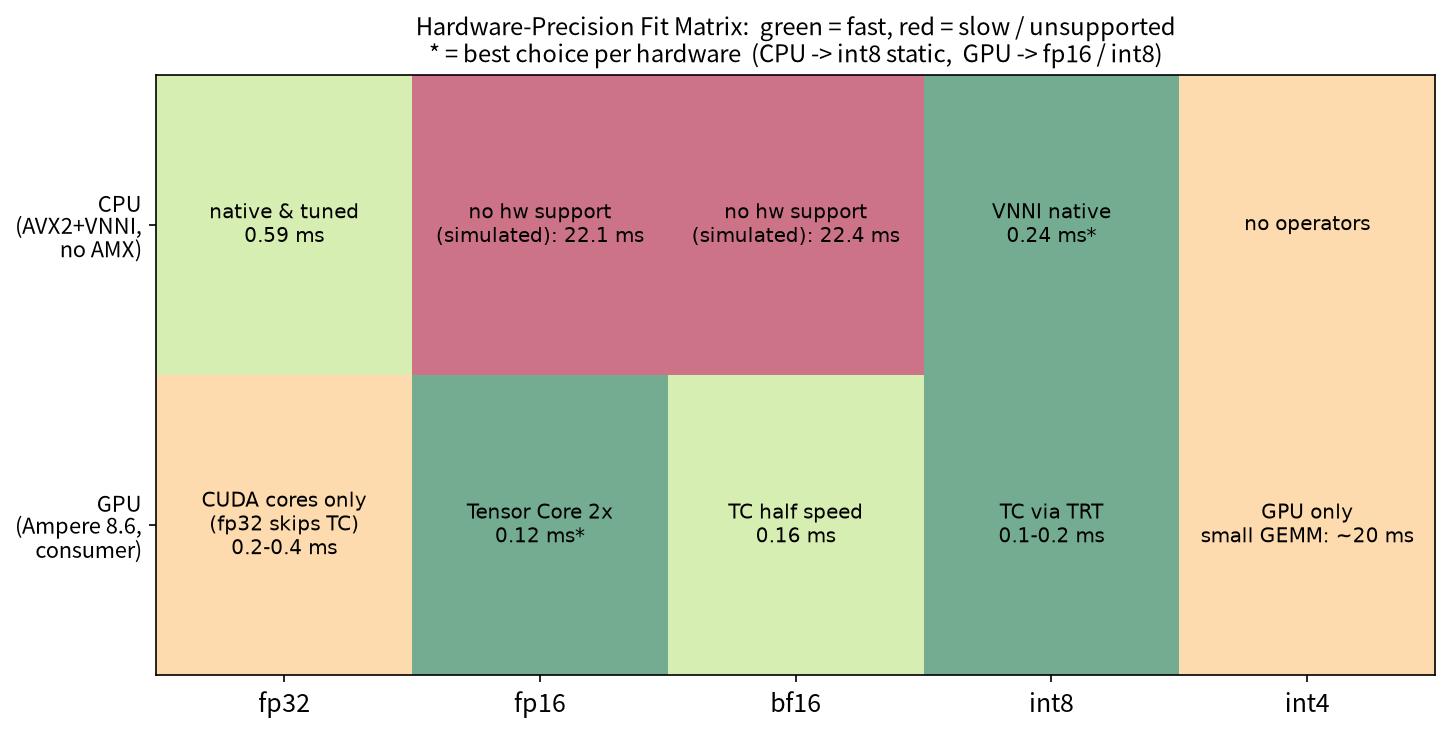
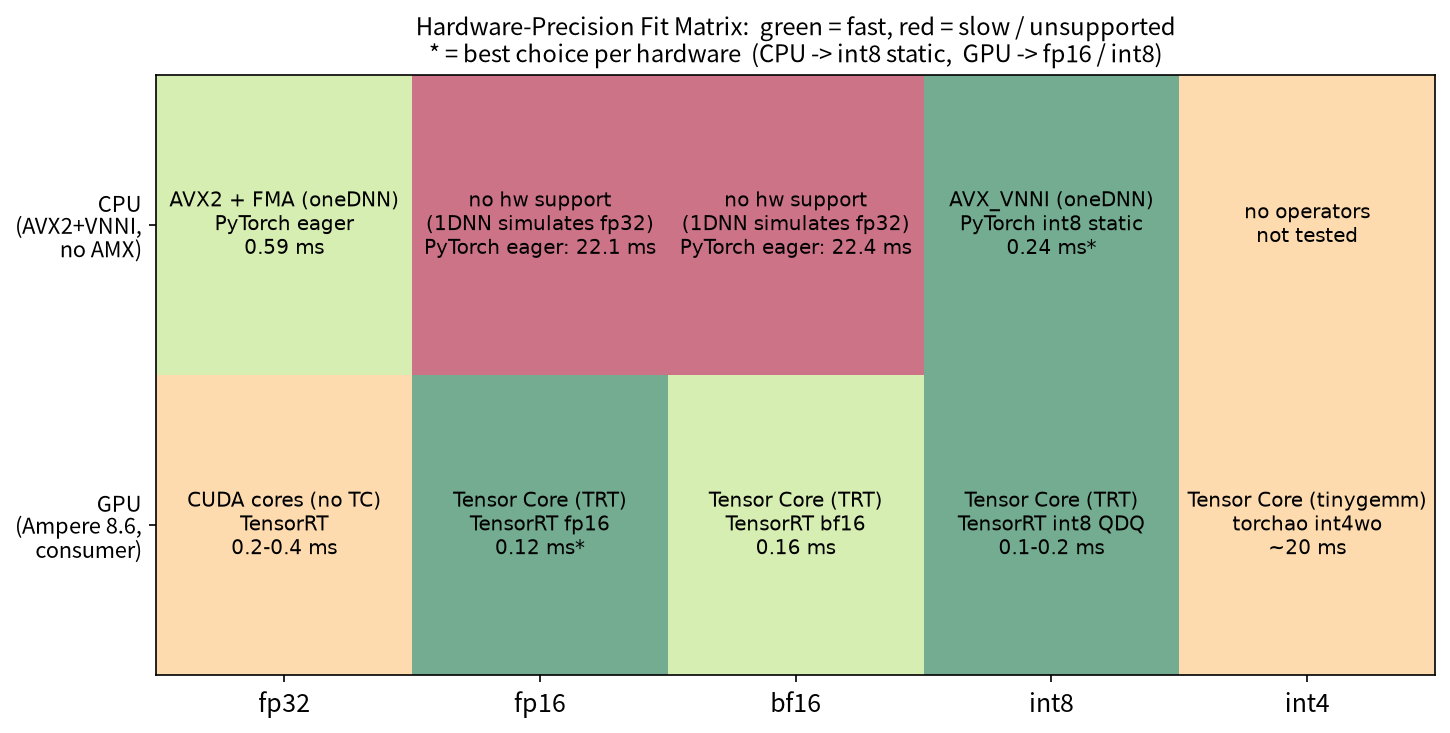
docs: 矩阵图文字统一为 计算单元/指令集 + 测试框架 + 耗时 三行格式

diff --git a/src/make_charts.py b/src/make_charts.py
@@ -200,8 +200,18 @@ def hw_precision_matrix():
         [1, 3, 2, 3, 1],   # GPU
     ], dtype=float)
     im = ax.imshow(data, cmap="RdYlGn", vmin=0, vmax=3, aspect="auto", alpha=0.55)
-    notes = [["native & tuned\n0.59 ms", "no hw support\n(simulated): 22.1 ms", "no hw support\n(simulated): 22.4 ms", "VNNI native\n0.24 ms*", "no operators"],
-             ["CUDA cores only\n(fp32 skips TC)\n0.2-0.4 ms", "Tensor Core 2x\n0.12 ms*", "TC half speed\n0.16 ms", "TC via TRT\n0.1-0.2 ms", "GPU only\nsmall GEMM: ~20 ms"]]
+    # 统一格式：第 1 行 = 计算单元/指令集（不支持则 no hw support），
+    # 第 2 行 = 测试框架，第 3 行 = 耗时
+    notes = [["AVX2 + FMA (oneDNN)\nPyTorch eager\n0.59 ms",
+              "no hw support\n(1DNN simulates fp32)\nPyTorch eager: 22.1 ms",
+              "no hw support\n(1DNN simulates fp32)\nPyTorch eager: 22.4 ms",
+              "AVX_VNNI (oneDNN)\nPyTorch int8 static\n0.24 ms*",
+              "no operators\nnot tested"],
+             ["CUDA cores (no TC)\nTensorRT\n0.2-0.4 ms",
+              "Tensor Core (TRT)\nTensorRT fp16\n0.12 ms*",
+              "Tensor Core (TRT)\nTensorRT bf16\n0.16 ms",
+              "Tensor Core (TRT)\nTensorRT int8 QDQ\n0.1-0.2 ms",
+              "Tensor Core (tinygemm)\ntorchao int4wo\n~20 ms"]]
     for i in range(2):
         for j in range(5):
             ax.text(j, i, notes[i][j], ha="center", va="center", fontsize=9.5)
